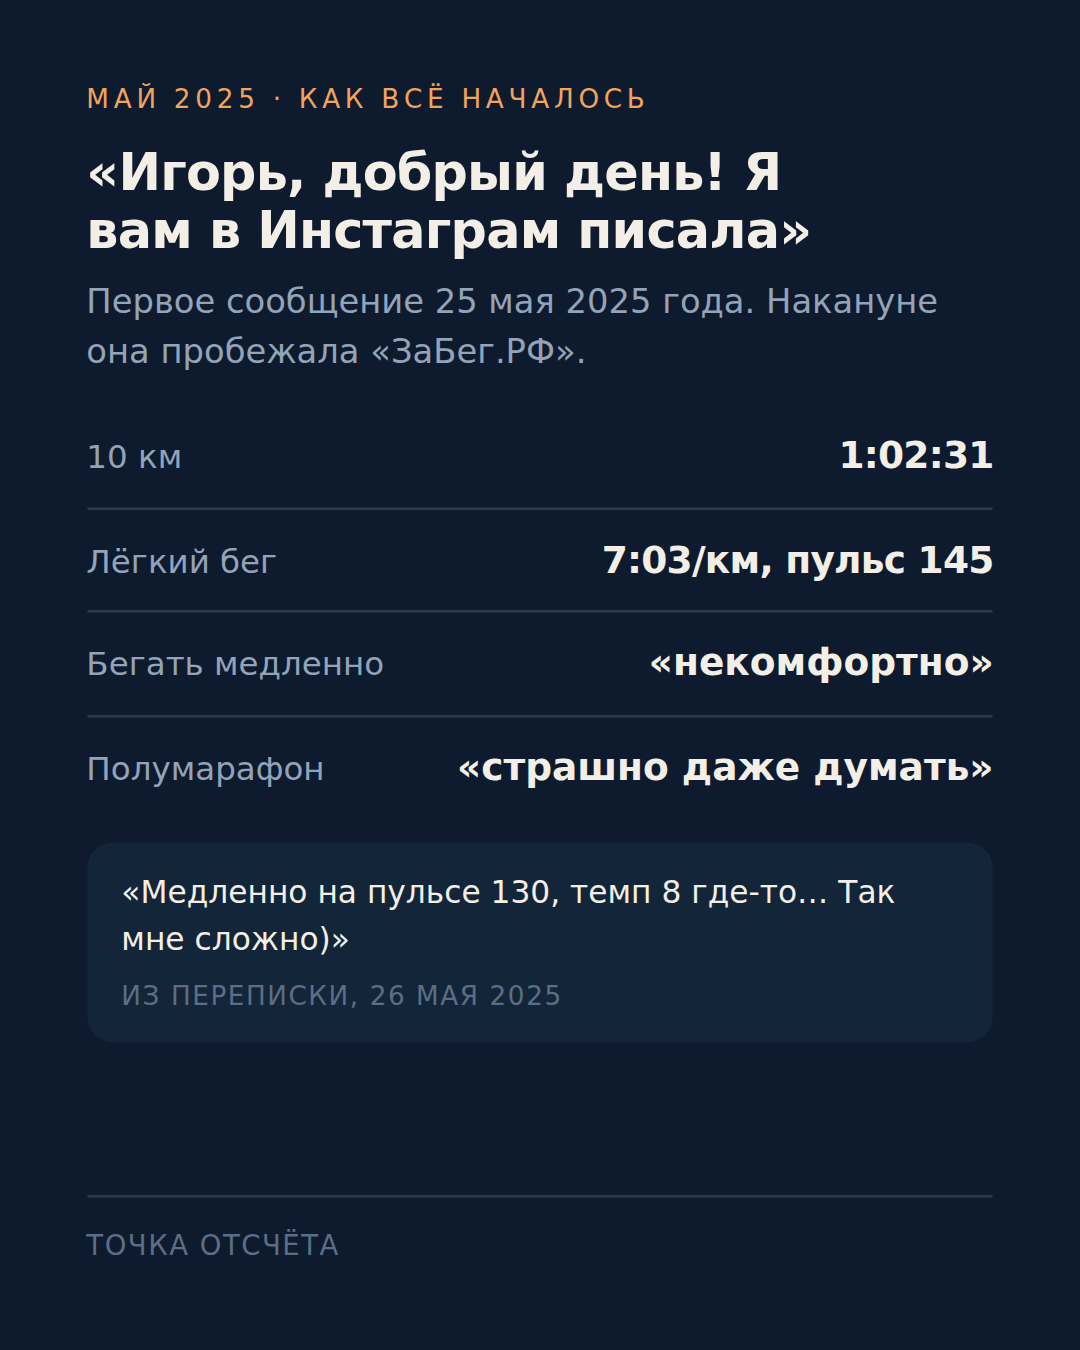
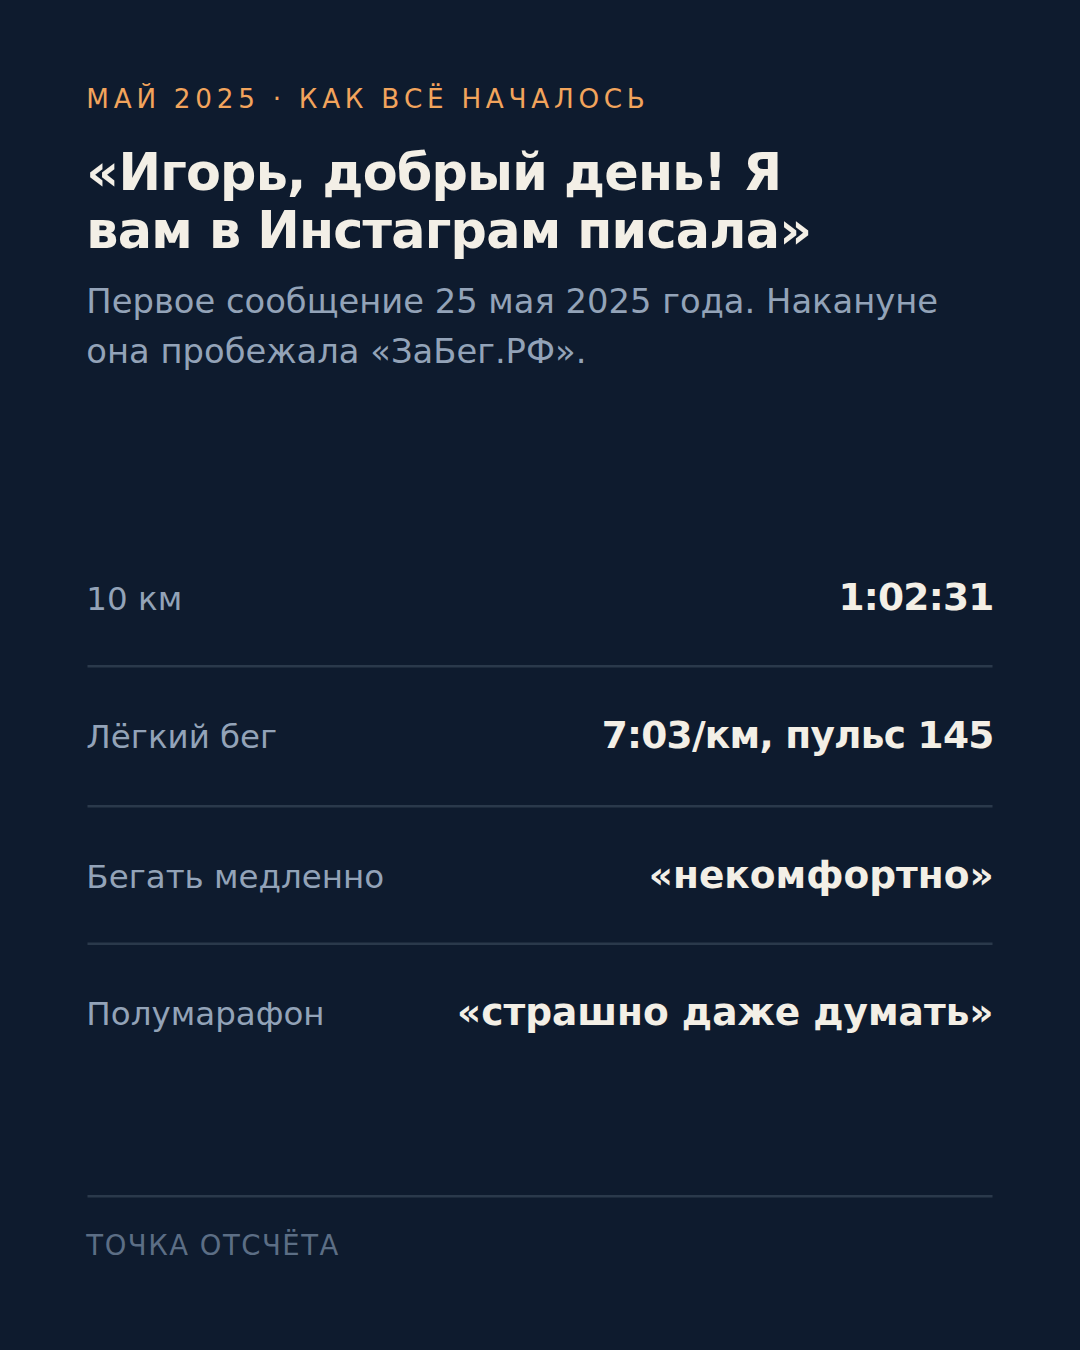
Кейс Марины: второй слайд разгружен
Цитата про пульс 130 убрана, таблица переведена в просторный режим
и центрирована по вертикали: карточка перестала быть перегруженной.

Claude-Session: https://claude.ai/code/session_01TCkfnjNSfYqVL2bsDidSCb

diff --git a/docs/cases/marina-nikolaeva/instagram-carousel-mockup.html b/docs/cases/marina-nikolaeva/instagram-carousel-mockup.html
@@ -53,6 +53,8 @@
   .photo{border:1.5px dashed var(--faint);border-radius:10px;display:flex;align-items:center;justify-content:center;color:var(--muted);font-size:12px;letter-spacing:.08em;text-transform:uppercase;background:var(--night-2);text-align:center;padding:8px}
 
   .kv{display:flex;flex-direction:column;gap:0}
+  .kv.airy{flex:1;justify-content:center}
+  .kv.airy .row{padding:16px 0}
   .kv .row{display:flex;justify-content:space-between;align-items:baseline;padding:9px 0;border-bottom:1px solid var(--line)}
   .kv .row:last-child{border-bottom:none}
   .kv .k{color:var(--muted);font-size:13px;padding-right:12px}
@@ -128,14 +130,11 @@
         <div class="eyebrow">Май 2025 · как всё началось</div>
         <h2>«Игорь, добрый день! Я вам в Инстаграм писала»</h2>
         <p class="sub">Первое сообщение 25 мая 2025 года. Накануне она пробежала «ЗаБег.РФ».</p>
-        <div class="kv" style="margin-top:12px">
+        <div class="kv airy" style="margin-top:16px">
           <div class="row"><span class="k">10 км</span><span class="v num">1:02:31</span></div>
           <div class="row"><span class="k">Лёгкий бег</span><span class="v num">7:03/км, пульс 145</span></div>
           <div class="row"><span class="k">Бегать медленно</span><span class="v">«некомфортно»</span></div>
           <div class="row"><span class="k">Полумарафон</span><span class="v">«страшно даже думать»</span></div>
-        </div>
-        <div class="quote" style="margin-top:10px">«Медленно на пульсе 130, темп 8 где-то… Так мне сложно)»
-          <div class="who">из переписки, 26 мая 2025</div>
         </div>
         <div class="foot"><span>точка отсчёта</span></div>
       </div>
